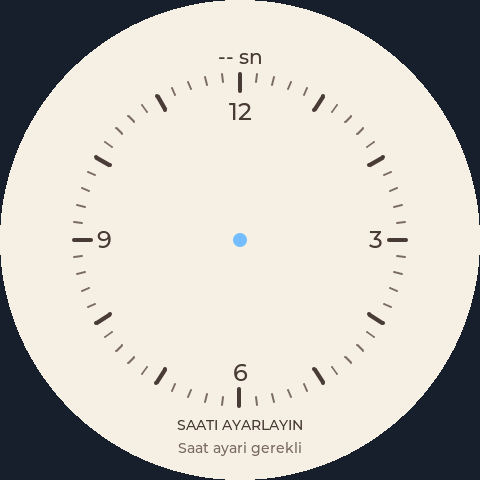
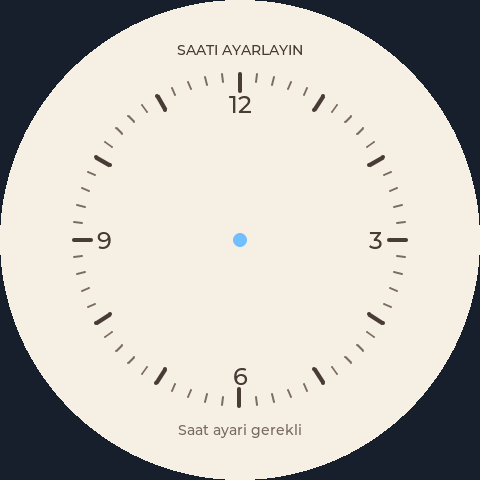
test(mvvm): add headless regression coverage and architecture guide

diff --git a/output/verify-viewmodels.py b/output/verify-viewmodels.py
@@ -1,0 +1,211 @@
+"""Run compiled ARM Models/ViewModels without initializing LVGL or the board.
+
+The fake flash and RTC ports exercise real command, draft and persistence flows.
+Run after Build.ps1 and export the matching Firmware/Smartwatch.bin.
+"""
+import hashlib
+import json
+import struct
+import sys
+from pathlib import Path
+
+ROOT = Path(__file__).resolve().parents[1]
+sys.path.insert(0, str(ROOT / 'tmp' / 'simulator-libs'))
+from unicorn import Uc, UC_ARCH_ARM, UC_MODE_THUMB, UC_MODE_MCLASS, UC_HOOK_CODE
+from unicorn.arm_const import *
+from elftools.elf.elffile import ELFFile
+
+u = Uc(UC_ARCH_ARM, UC_MODE_THUMB | UC_MODE_MCLASS)
+u.ctl_set_cpu_model(UC_CPU_ARM_CORTEX_M33)
+u.mem_map(0x08000000, 0x400000)
+u.mem_map(0x20000000, 0x280000)
+u.mem_map(0x21000000, 0x100000)
+u.mem_map(0x0fff0000, 0x1000)
+with (ROOT / 'Debug' / 'Smartwatch.elf').open('rb') as f:
+    elf = ELFFile(f)
+    symbols = {s.name: s['st_value'] for s in elf.get_section_by_name('.symtab').iter_symbols() if s.name}
+    for seg in elf.iter_segments():
+        if seg['p_type'] == 'PT_LOAD':
+            u.mem_write(seg['p_vaddr'], seg.data())
+u.reg_write(UC_ARM_REG_C1_C0_2, 0xf00000)
+u.reg_write(UC_ARM_REG_FPEXC, 0x40000000)
+regs = [UC_ARM_REG_R0, UC_ARM_REG_R1, UC_ARM_REG_R2, UC_ARM_REG_R3]
+persisted = None
+storage_ok = True
+clock_ok = True
+clock_calls = []
+checks = []
+
+def ret(value=0):
+    u.reg_write(UC_ARM_REG_R0, value)
+    u.reg_write(UC_ARM_REG_PC, u.reg_read(UC_ARM_REG_LR))
+
+def replace(name, callback):
+    addr = symbols[name] & ~1
+    u.hook_add(UC_HOOK_CODE, lambda uc, a, size, data: callback(), begin=addr, end=addr)
+
+def load():
+    if persisted is not None:
+        u.mem_write(u.reg_read(UC_ARM_REG_R0), persisted)
+    ret(persisted is not None)
+
+def save():
+    global persisted
+    if storage_ok:
+        persisted = bytes(u.mem_read(u.reg_read(UC_ARM_REG_R0), 916))
+    ret(storage_ok)
+
+def set_clock():
+    raw = struct.pack('<II', u.reg_read(UC_ARM_REG_R0), u.reg_read(UC_ARM_REG_R1))
+    clock_calls.append(struct.unpack('<H6B', raw))
+    ret(clock_ok)
+
+replace('watch_storage_load', load)
+replace('watch_storage_save', save)
+replace('watch_platform_clock_set', set_clock)
+
+def call(name, *args):
+    sp = 0x20270000
+    for i, value in enumerate(args[:4]):
+        u.reg_write(regs[i], value & 0xffffffff)
+    for i, value in enumerate(args[4:]):
+        u.mem_write(sp + i * 4, struct.pack('<I', value & 0xffffffff))
+    u.reg_write(UC_ARM_REG_SP, sp)
+    u.reg_write(UC_ARM_REG_LR, 0x0fff0001)
+    u.emu_start(symbols[name] | 1, 0x0fff0000, count=10000000)
+    if u.reg_read(UC_ARM_REG_PC) != 0x0fff0000:
+        raise RuntimeError('Instruction limit: ' + name)
+    return u.reg_read(UC_ARM_REG_R0)
+
+def string(value):
+    address = 0x210f0000
+    u.mem_write(address, value.encode('ascii') + b'\0')
+    return address
+
+def cstring(address):
+    return bytes(u.mem_read(address, 256)).split(b'\0')[0].decode()
+
+def uint16(offset):
+    return struct.unpack('<H', u.mem_read(symbols['watch_data'] + offset, 2))[0]
+
+def check(condition, label):
+    checks.append((bool(condition), label))
+    print(('PASS: ' if condition else 'FAIL: ') + label, flush=True)
+
+def time_call(name, year, month, day, hour=10, minute=0, second=0):
+    # AAPCS passes this 8-byte value in R0/R1.
+    args = struct.unpack('<II', struct.pack('<H6B', year, month, day, hour, minute, second, 0))
+    return call(name, *args)
+
+for folder, forbidden in [('models', ['lv_', 'HAL_', 'watch_storage_', 'viewmodels/', 'views/']),
+                           ('viewmodels', ['lv_', 'HAL_', 'views/', 'platform/']),
+                           ('services', ['lv_', 'HAL_', 'viewmodels/', 'views/']),
+                           ('platform', ['watch_app_vm_', 'watch_faces_vm_'])]:
+    bad = []
+    for path in (ROOT / 'App' / folder).glob('*.[ch]'):
+        source = path.read_text(encoding='utf-8')
+        bad.extend((path.name, token) for token in forbidden if token in source)
+    check(not bad, folder + ' preserves dependency boundaries: ' + str(bad))
+view_sources = '\n'.join(p.read_text(encoding='utf-8') for p in (ROOT/'App'/'views').glob('*.[ch]'))
+check('watch_data.' not in view_sources and 'watch_model_save(' not in view_sources,
+      'Views do not mutate persistent state or call the repository')
+
+call('watch_app_vm_init', 0)  # No display, widgets, LVGL initialization or UI observer.
+check(call('watch_settings_vm_twelve') == 0 and uint16(908) == 2000, 'Headless startup supplies defaults')
+check(not call('watch_water_vm_add', 1) and uint16(800) == 0, 'Unknown RTC blocks water commands')
+time_call('watch_app_vm_time_changed', 2026, 10, 5)
+check(call('watch_water_vm_add', 1) and uint16(800) == 200, 'Headless water command adds one glass')
+call('watch_water_vm_add', -10)
+check(uint16(800) == 0, 'Water cannot fall below zero')
+call('watch_water_vm_add', 200)
+check(uint16(800) == 20000, 'Water upper limit remains 20000 ml')
+call('watch_water_vm_goal', -10000)
+check(uint16(908) == 200, 'Water goal has a 200 ml lower limit')
+call('watch_water_vm_goal', 10000)
+check(uint16(908) == 6000, 'Water goal has a 6000 ml upper limit')
+for expected in [30, 60, 120, 0]:
+    call('watch_water_vm_reminder')
+    check(uint16(910) == expected, 'Reminder cycles to %d minutes' % expected)
+
+call('watch_calculator_vm_key', string('C'))
+for key in ['2', '+', '3', '*', '4', '=']:
+    call('watch_calculator_vm_key', string(key))
+state = call('watch_calculator_vm_state')
+check(cstring(state + 48) == '14', 'Headless calculator preserves operator precedence')
+for key in ['+', '1', '=']:
+    call('watch_calculator_vm_key', string(key))
+check(cstring(state + 48) == '15', 'Calculator continues with the previous result')
+for key in ['C', '1', '/', '0', '=']:
+    call('watch_calculator_vm_key', string(key))
+check(cstring(state + 48) == 'Gecersiz islem', 'Division by zero yields displayable error state')
+call('watch_calculator_vm_key', string('8'))
+check(cstring(state + 48) == '8', 'Calculator recovers from an invalid expression')
+
+call('watch_notes_vm_open', 0)
+call('watch_notes_vm_change', string('Draft only'))
+check(cstring(symbols['watch_data'] + 28) == '', 'Editing a note leaves the model unchanged')
+call('watch_notes_vm_open', 0)
+check(cstring(call('watch_notes_vm_state') + 10) == '', 'Reopening discards an uncommitted draft')
+call('watch_notes_vm_change', string('Saved note'))
+check(call('watch_notes_vm_save') and cstring(symbols['watch_data'] + 28) == 'Saved note', 'Save commits a note through the repository')
+check(not call('watch_notes_vm_delete') and cstring(symbols['watch_data'] + 28) == 'Saved note', 'First delete command asks for confirmation')
+call('watch_notes_vm_change', string('Changed note'))
+check(not call('watch_notes_vm_delete'), 'Changing the draft clears delete confirmation')
+check(call('watch_notes_vm_delete') and cstring(symbols['watch_data'] + 28) == '', 'Confirmed delete commits an empty note')
+
+call('watch_calendar_vm_init', 2000, 1)
+call('watch_calendar_vm_move', 0)
+calendar = call('watch_calendar_vm_state')
+check(struct.unpack('<HB', u.mem_read(calendar, 3)) == (2000, 1), 'Calendar cannot move before January 2000')
+call('watch_calendar_vm_init', 2099, 12)
+call('watch_calendar_vm_move', 1)
+check(struct.unpack('<HB', u.mem_read(calendar, 3)) == (2099, 12), 'Calendar cannot move past December 2099')
+call('watch_clock_vm_open')
+call('watch_clock_vm_date', 2024, 2, 31)
+editor = call('watch_clock_vm_state')
+check(bytes(u.mem_read(editor + 3, 1)) == b'\x1d', 'Clock editor clamps leap-year February to 29 days')
+call('watch_clock_vm_date', 2025, 2, 29)
+check(bytes(u.mem_read(editor + 3, 1)) == b'\x1c', 'Clock editor clamps ordinary February to 28 days')
+before_calls = len(clock_calls)
+check(not call('watch_clock_set_datetime', 2025, 2, 29, 12, 0, 0) and len(clock_calls) == before_calls,
+      'Invalid dates never reach the RTC port')
+clock_ok = False
+check(not time_call('watch_clock_vm_save', 2026, 10, 5, 12, 30, 59), 'Clock editor exposes hardware write failure')
+check(not bytes(u.mem_read(call('watch_app_vm_state') + 8, 1))[0], 'RTC write failure marks time unknown')
+clock_ok = True
+check(time_call('watch_clock_vm_save', 2026, 10, 5, 12, 30, 59) and clock_calls[-1][5] == 0,
+      'Clock save retries successfully and resets seconds to zero')
+check(bytes(u.mem_read(call('watch_app_vm_state') + 8, 1)) == b'\x01', 'Successful clock service updates the app ViewModel')
+
+call('watch_alarm_vm_open', 0)
+call('watch_alarm_vm_save', 12, 31)
+time_call('watch_app_vm_set_datetime', 2026, 10, 5, 12, 31)
+check(call('watch_alarm_next') == 0, 'Alarm command triggers through headless time updates')
+call('watch_notification_vm_action', 1)
+check(call('watch_alarm_next') == 0xffffffff, 'Snooze clears the current alarm notification')
+time_call('watch_app_vm_set_datetime', 2026, 10, 5, 12, 36)
+check(call('watch_alarm_next') == 0, 'Snoozed alarm returns after five minutes')
+call('watch_notification_vm_action', 0)
+check(not call('watch_notification_vm_alarm_active'), 'Stop command clears alarm output state')
+
+old = bytes(u.mem_read(symbols['watch_data'] + 914, 1))
+call('watch_faces_vm_open'); call('watch_faces_vm_choose', 3)
+storage_ok = False
+check(not call('watch_faces_vm_apply') and bytes(u.mem_read(symbols['watch_data'] + 914, 1)) == old,
+      'Failed face save rolls back the active model selection')
+check(bytes(u.mem_read(call('watch_app_vm_state') + 9, 1)) == b'\x00', 'Storage failure is exposed in app state')
+storage_ok = True
+check(call('watch_faces_vm_apply') and bytes(u.mem_read(symbols['watch_data'] + 914, 1)) == b'\x03',
+      'Retry commits the retained face draft')
+call('watch_notes_vm_open', 1); call('watch_notes_vm_change', string('Restart proof')); call('watch_notes_vm_save')
+call('watch_settings_vm_toggle_theme')
+saved = persisted
+call('watch_app_vm_init', 0)
+check(bytes(u.mem_read(symbols['watch_data'], 916)) == saved, 'Reinitialization reloads the unchanged 916-byte persistent layout')
+
+report = {'passed': sum(v for v, _ in checks), 'failed': sum(not v for v, _ in checks), 'checks': checks,
+          'elf_sha256': hashlib.sha256((ROOT/'Debug'/'Smartwatch.elf').read_bytes()).hexdigest(),
+          'scope': 'Compiled ARM Models/ViewModels; LVGL never initialized; flash and RTC ports are fakes.'}
+(ROOT/'output'/'verify-viewmodels.json').write_text(json.dumps(report, indent=2))
+print(json.dumps(report, indent=2), flush=True)
+sys.exit(1 if report['failed'] else 0)

diff --git a/ARCHITECTURE.md b/ARCHITECTURE.md
@@ -1,0 +1,103 @@
+# Smartwatch — C/LVGL MVVM mimarisi
+
+Uygulama, tek ana döngü üzerinde çalışan hafif bir MVVM düzeni kullanır. Model ve
+ViewModel katmanları LVGL, HAL veya ekran nesnelerine bağımlı değildir. Widget
+oluşturma, yerleşim, renkler ve çizim yalnız View katmanındadır. RTOS eklenmemiştir.
+
+## Katmanlar
+
+| Klasör | Sorumluluk |
+|---|---|
+| `App/models/` | Kalıcı veri, doğrulama, alarm/su kuralları, tarih hesapları, hesap makinesi ayrıştırıcısı |
+| `App/viewmodels/` | Ekran durumu, düzenleme taslakları, kullanıcı komutları, ekrana hazır metinler |
+| `App/views/` | LVGL ekranları, ortak widget yardımcıları, kadran çizimi, ikon/font varlıkları |
+| `App/services/` | Kalıcı kayıt ve saat servisi sözleşmeleri, saat değişimi bildirimi |
+| `App/platform/` | STM32 RTC, flash günlüğü, DMA2D/LTDC ekran ve dokunmatik bağlantıları |
+| `App/navigation/` | Sayfa geçişleri, kenar kaydırması, çift dokunma, kilit/ekran açık-kapalı davranışı |
+| `Core/Src/main.c` | Donanımı başlatır, uygulamayı bağlar, RTC/LVGL/LED ana döngüsünü çalıştırır |
+
+Bağımlılık yönü: **View → ViewModel → Model/Servis**. Platform, servislerin donanım
+işlevlerini uygular. Saat servisi bir callback ile uygulama ViewModel'ine sonucu
+bildirir; RTC sürücüsü ekran açmaz veya widget değiştirmez. Ekran/dokunmatik
+adaptörü, LVGL'nin donanım bağlantısı olduğundan LVGL arayüzlerini kullanır.
+
+## Ekran ve ViewModel eşleşmeleri
+
+| Özellik | View | ViewModel |
+|---|---|---|
+| Kadranlar ve seçim | `watch_faces_view.c` | `watch_faces_vm.c` |
+| Alarm listesi/düzenleme | `watch_alarm_view.c` | `watch_alarm_vm.c` |
+| Not listesi/düzenleme | `watch_notes_view.c` | `watch_notes_vm.c` |
+| Su, hedef, geçmiş | `watch_water_view.c` | `watch_water_vm.c` |
+| Hesap makinesi | `watch_calculator_view.c` | `watch_calculator_vm.c` |
+| Takvim | `watch_calendar_view.c` | `watch_calendar_vm.c` |
+| Ayarlar | `watch_settings_view.c` | `watch_settings_vm.c` |
+| Saat/tarih düzenleme | `watch_clock_view.c` | `watch_clock_vm.c` |
+| Alarm/su bildirimleri | `watch_notification_view.c` | `watch_notification_vm.c` |
+| Uygulama zamanı ve kayıt durumu | `watch_ui.c` | `watch_app_vm.c` |
+
+ViewModel sözleşmeleri `App/viewmodels/watch_viewmodels.h` içindedir. Ekranlar,
+salt okunur durum getter'larını ve komut fonksiyonlarını kullanır. Widget
+adresleri ViewModel'e verilmez. Modelin verisi de salt okunur getter ile sunulur;
+değişiklikler model fonksiyonları üzerinden yapılır. `watch_data` sembolü mevcut
+debug/test araçlarının uyumluluğu için korunur, uygulama başlığında dışarı açılmaz.
+
+## Güncelleme ve komut akışı
+
+Su ekleme örneği:
+
+1. LVGL buton callback'i `watch_water_vm_add(1)` çağırır.
+2. ViewModel saat geçerliliğini denetler; model bir bardak ekler ve sınırları uygular.
+3. ViewModel kayıt servisini çağırır; sonuç uygulamanın `storage_ok` durumuna yazılır.
+4. View, `watch_water_vm_state()` sonucuyla metinleri ve halkayı günceller.
+5. Bildirim ViewModel'i yeni alarm/su uyarısı durumunu sağlar.
+
+Veri bağlama bu sürümde açık komut/güncelleme çağrılarıyla ve zaman değişimlerinde
+`watch_vm_observer_t` callback'iyle yapılır. Böylece ViewModel testleri LVGL
+başlatmadan çalışabilir. LVGL Subject/Observer altyapısı açık olsa da yeni yapının
+çalışması için kullanılmasına gerek yoktur. Getter'dan dönen yapılar başka bir
+komut çağrısında değişebileceğinden View bunları aynı döngü içinde tüketir.
+
+Not, alarm, kadran ve saat düzenleme durumları kendi ViewModel'lerinde tutulur.
+Kaydetmeden geri dönmek model değişikliğine yol açmaz. Not metninin değişmesi
+silme onayını sıfırlar. Başarısız not kaydında düzenleme ekranı açık kalır.
+Başarısız kadran kaydında önceki aktif seçim geri yüklenir ve taslak tekrar
+denemek için korunur. Diğer kayıt hatalarında RAM'deki güncel değer ve genel
+kayıt hata bildirimi korunur; işlemler tüm uygulama için atomik bir transaction
+olarak uygulanmaz.
+
+## Donanım ve kayıt uyumluluğu
+
+- Flash veri yapısı **916 bayt**, sürümü **1** olarak korunmuştur; derleme zamanı
+  kontrolü bu boyutun değişmesini engeller.
+- İki sayfalı CRC/sıra numaralı flash günlüğü ve ayrılmış flash adresleri korunur.
+- `watch_ui_*`, `watch_clock_set_datetime`, `refresh_rtc` ve donanım/debug sembolleri
+  mevcut testler ve `Sync-Time.ps1` için korunur. Kökteki küçük başlıklar uyumluluk
+  girişleridir; yeni kod ilgili katmanın başlığını kullanmalıdır.
+- Ana döngü, ekran zamanlaması, dokunma eşikleri ve bildirim öncelikleri korunur.
+- İkon bitmapleri ortak bir `.c` dosyasından sunulur; menü ve ayarlar aynı
+  bitmapleri kullanır.
+
+Analog kadranın ibre merkezi ve işaretleri **(240, 240)** etrafındadır. Rakamların
+merkezleri eşit yarıçapta hizalanır. Tarih ve su bilgisi merkezin üstüne/altına
+simetrik yerleşir. Analog kadranda dijital saniye etiketi yoktur; saniye ibresi
+ve diğer dijital kadranların saniye göstergeleri çalışmaya devam eder.
+
+## Doğrulama
+
+`Build.ps1` CubeIDE ile tüm alt klasörleri derler ve eşleşen `.bin` dosyasını ARM
+objcopy ile `Debug/Smartwatch.elf` dosyasından otomatik üretir. `-Clean` seçeneği
+temiz derleme yapar. Testler aynı ELF'i çalıştırır:
+
+- `output/verify-round-ui.py`: gerçek derlenmiş ARM kodu ve LVGL ile dokunma,
+  ekran geçişi, kayıt hatası, kadran ve analog hizalama kontrolleri; PNG önizlemeler.
+- `output/verify-viewmodels.py`: LVGL başlatmadan Model/ViewModel komutları, taslaklar,
+  sınırlar, saat servisi hataları, alarm erteleme ve 916 baytlık kayıt uyumluluğu.
+
+Testler yerel `unicorn`, `pyelftools` ve UI görselleri için `Pillow` kullanır.
+RTC, panel ve flash portları yazılım testlerinde taklit edilir. Bu sonuçlar
+fiziksel panel zamanlaması, güç kesintisi veya karta yükleme doğrulaması değildir.
+
+Yeni bir özellik eklerken önce model kuralını ve ViewModel durum/komutlarını
+yazın; ardından View'i bu sözleşmeye bağlayın. HAL işlevlerini ViewModel'e,
+iş kurallarını LVGL callback'lerine taşımayın.

diff --git a/README.md b/README.md
@@ -2,6 +2,25 @@
 
 STM32U5A9J-DK için STM32CubeIDE projesi. LVGL 9.3.0 kullanır; TouchGFX gerekmez.
 
+## MVVM düzeni ve analog kadran — 5 Ekim 2026
+
+Uygulama Model–View–ViewModel düzenine taşındı. Her özelliğin ekranı ve ViewModel'i
+ayrı dosyalardadır; RTC, flash, ekran/dokunmatik bağlantıları donanım modüllerindedir.
+ViewModel'ler LVGL veya HAL başlatmadan test edilebilir. Mevcut **916 baytlık**
+kayıt formatı ve ana döngü korunmuştur. Dosya eşleşmeleri ve geliştirme kuralları
+[ARCHITECTURE.md](ARCHITECTURE.md) içindedir.
+
+Analog kadranın dijital saniye etiketi kaldırıldı. Saniye ibresi korunur;
+rakamlar ve ibre merkezi ekranın tam merkezine hizalanır. Tarih üstte, su bilgisi
+altta simetrik yerleşir. [Güncel analog önizleme](output/round-classic.png).
+
+Güncel yazılım sonuçları: [ARM/LVGL arayüz testleri](output/verify-round-ui.json)
+**105 geçti**, [ekransız Model/ViewModel testleri](output/verify-viewmodels.json)
+**43 geçti**; toplam **148 kontrol, 0 başarısızlık**.
+Derleme **0 hata, 0 uyarı** ile tamamlandı.
+Bu sürüm için hazır binary yeniden üretilmiştir; eski kart doğrulama günlükleri
+önceki firmware sürümlerine aittir.
+
 ## Ekran görüntüleri ve hazır firmware
 
 - [Yeni yuvarlak arayüzün önizlemesi](output/round-ui-preview.png)
@@ -182,6 +201,8 @@ Yerinde kullanmak için “Copy projects into workspace” kapalı olsun. Projec
 Run/Debug için ST-LINK ve `Debug/Smartwatch.elf` seçilir.
 
 PowerShell'den `./Build.ps1`, ardından `./Flash.ps1` çalıştırılabilir.
+Derleme `Firmware/Smartwatch.bin` dosyasını da günceller. Baştan temiz derleme
+için `./Build.ps1 -Clean` kullanın.
 Betikler Türkçe klasör yollarını destekler; Eclipse çalışma alanı geçici dizinde tutulur.
 `Core/Inc/build_time.h` her derlemede İstanbul saatiyle güncellenir; yalnız tarih ayarı taslağının başlangıç
 değeridir, RTC'ye otomatik olarak gerçek saat diye yazılmaz.
@@ -223,13 +244,14 @@ Normal firmware yüklemesi bu sayfaları korur; toplu flash silme kayıtları da
 
 ## Dosyalar
 
-- `App/watch_ui.c`: ekranlar ve kullanıcı etkileşimleri.
-- `App/watch_faces.c`: üç kadran, canlı saat/veri güncellemeleri ve görünüm/renk seçimi.
-- `App/watch_font_clock.c`: saat için büyük rakam fontu.
-- `App/watch_model.c`: alarm, su takibi ve hesap mantığı.
-- `App/watch_storage.c`: flash kayıt günlüğü.
-- `Core/Src/main.c`: RTC, ekran/dokunmatik portu ve ana döngü.
-- `App/watch_clock.h`: tarih/saat doğrulamalı donanım RTC ayarı arayüzü.
+- `App/views/`: ekranlar, dört kadran, ortak widgetlar ve ikon/font varlıkları.
+- `App/viewmodels/`: ekran durumları, düzenleme taslakları ve kullanıcı komutları.
+- `App/models/`: alarm/su kuralları, veri yapısı, tarih ve hesaplama mantığı.
+- `App/services/`: kayıt ve saat servisleri ile donanım sözleşmeleri.
+- `App/platform/`: STM32 RTC, flash günlüğü ve LVGL ekran/dokunmatik bağlantısı.
+- `App/navigation/`: ekran geçişleri ve dokunma/kilit davranışı.
+- `Core/Src/main.c`: donanım başlangıcı ve ana döngü.
+- `App/watch_clock.h`: mevcut araçlar için saat servisi uyumluluk başlığı.
 - `Sync-Time.ps1`: bilgisayardan isteğe bağlı İstanbul saati aktarımı.
 - `Middlewares/lv_conf.h`: LVGL yapılandırması ve 256 KB havuz.
 - `Backup/before-features-flash.bin`: bu sürümden önceki 4 MB dahili flash yedeği.
